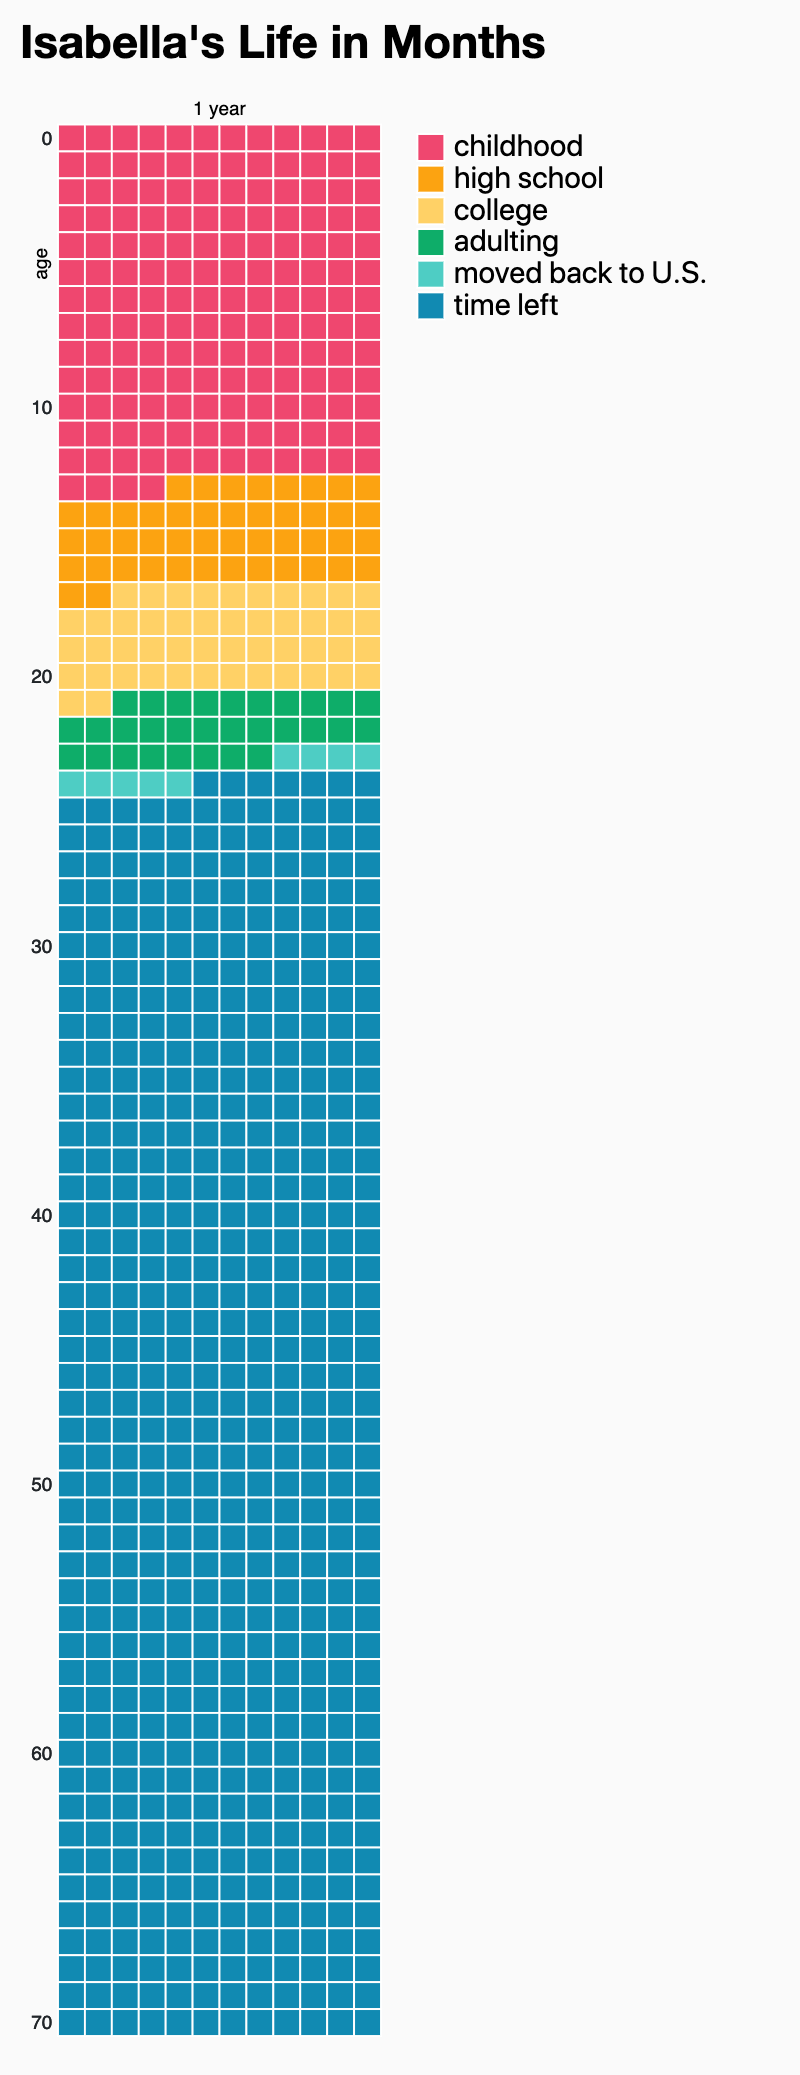
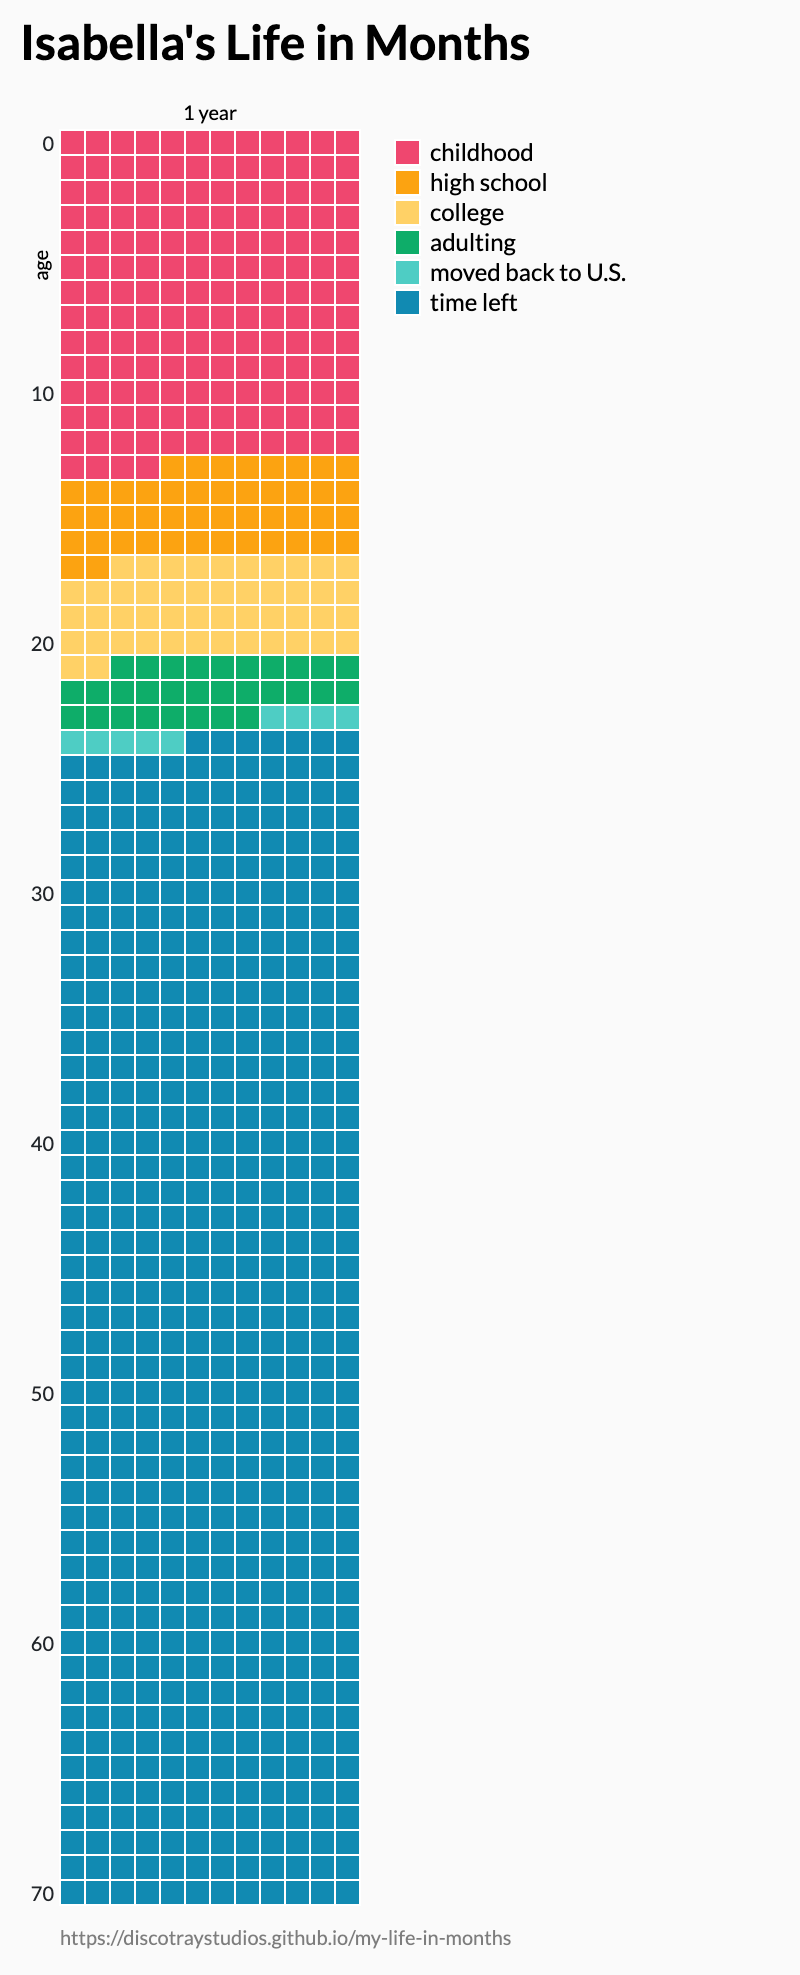
Revised all examples with new font

Changed region(s): [[0.0312, 0.0, 0.875, 0.9884]]

diff --git a/assets/scripts/months.js b/assets/scripts/months.js
@@ -22,15 +22,15 @@ $(document).ready(function() {
   "#d728a0", "#a9b9cb", "#0fffb7"];
 
   var goadrichdata = [
-    { "name": "Northampton", "value":120},
-    { "name": "Canvas", "value":96},
-    { "name": "Gambier", "value":45},
-    { "name": "Milwaukee", "value":3},
-    { "name": "Madison", "value":21},
-    { "name": "San Antonio", "value":7},
-    { "name": "Madison", "value":77},
-    { "name": "Shreveport", "value":84},
-    { "name": "Conway", "value":75}
+    { "name": "Northampton, PA", "value":120},
+    { "name": "Canvas, WV", "value":96},
+    { "name": "Gambier, OH", "value":45},
+    { "name": "Milwaukee, WI", "value":3},
+    { "name": "Madison, WI", "value":21},
+    { "name": "San Antonio, TX", "value":7},
+    { "name": "Madison, WI", "value":77},
+    { "name": "Shreveport, LA", "value":84},
+    { "name": "Conway, AR", "value":75}
   ];
   var goadrichrange = ["#008080", "#002855", "#4B2E84", "#008B2B", "#c5050c", "#0f52ba","#c5050c", "#8a2432", "#E96B10"];
 
